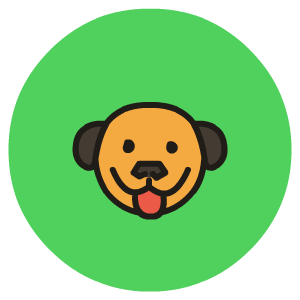
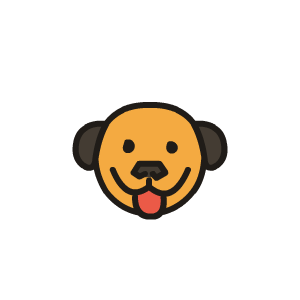
Added ability to change profilePic

diff --git a/components/Personalize/Pic.tsx b/components/Personalize/Pic.tsx
@@ -1,0 +1,83 @@
+import { useState, useEffect } from 'react';
+import { View, ScrollView, Text, TextInput, Button, TouchableOpacity, Image } from "react-native";
+import { Base, Typography, Forms, Buttons, Images } from '../../styles';
+import { showMessage } from 'react-native-flash-message';
+import { Feather, AntDesign, MaterialCommunityIcons } from '@expo/vector-icons';
+
+import storage from '../../models/storage';
+
+
+export default function Pic({ navigation, picNum, setPicNum, profilepics }) {
+
+    const [currentPicNum, setCurrentPicNum] = useState<number>(-1);
+    console.log("PICNUMMMMM");
+    console.log(picNum);
+
+    let listPics = "";
+    redefineListPics();
+
+    useEffect(() => {
+        setPicNumber(picNum);
+    }, []);
+
+    function setPicNumber(picNumber: number) {
+        setCurrentPicNum(picNumber);
+        redefineListPics();
+    }
+
+    function redefineListPics() {
+        listPics = profilepics
+            .map((profilepic, index) => {
+                return <TouchableOpacity
+                    key={index}
+                    onPress={() => { setPicNumber(index); }}>
+                    {
+                        index === currentPicNum &&
+                        <Image source={require("../../assets/profilePicBackg.png")} style={Images.profilePicBackg2} />
+                    }
+                    <Image source={profilepic} style={Images.profilePic2} />
+                </TouchableOpacity>
+            });
+    }
+
+    async function submit() {
+        setPicNum(currentPicNum);
+
+        await storage.setPicNum(currentPicNum.toString());
+
+        // showMessage({
+        //     message: `Bra val!`,
+        //     type: "success",
+        // });
+
+        navigation.navigate("Menyval");
+
+    }
+
+    async function cancel() {
+        navigation.navigate("Menyval");
+    }
+
+    // console.log(setProfilename);
+
+    return (
+        <ScrollView style={Base.content}>
+            <Text style={Typography.header2}>Välj bild</Text>
+            <View style={Base.rowContainer}>{listPics}</View>
+            <Text></Text>
+
+            <View style={Base.rowContainerCenter}>
+                <TouchableOpacity onPress={() => { submit(); }} style={Buttons.buttonProfileSmall}>
+                    <Feather name="save" size={24} color="white" />
+                    <Text style={Typography.boldButtonSideWhite}>    Spara</Text>
+                </TouchableOpacity>
+                <TouchableOpacity onPress={() => { cancel(); }} style={Buttons.buttonProfileSmallRed}>
+                    <MaterialCommunityIcons name="cancel" size={24} color="white" />
+                    <Text style={Typography.boldButtonSideWhite}>    Avbryt</Text>
+                </TouchableOpacity>
+            </View>
+        </ScrollView>
+    );
+
+
+};

diff --git a/App.tsx b/App.tsx
@@ -72,7 +72,20 @@ const categories: Array<Partial<Category>> = [
     imgUrl: require("./assets/noIcon.png"),
     urlEnd: '8861938c-e603-422f-b5b9-b49c09c15b9f'
   }
-]
+];
+
+
+const profilepics: Array<NodeRequire> = [
+  require("./assets/dogIcon.png"),
+  require("./assets/dogTestIcon.png"),
+  require("./assets/dogIcon.png"),
+  require("./assets/dogIcon.png"),
+  require("./assets/dogIcon.png"),
+  require("./assets/dogIcon.png"),
+  require("./assets/dogIcon.png"),
+  require("./assets/dogIcon.png"),
+  require("./assets/dogIcon.png"),
+];
 
 const Tab = createBottomTabNavigator();
 // https://icons.expo.fyi/ sortera på ionicons eller importera bibliotek
@@ -98,25 +111,15 @@ FlashMessage.setColorTheme({
 
 export default function App() {
 
-  // const [isLoggedIn, setIsLoggedIn] = useState<Boolean>(false);
   const [name, setName] = useState<string>("");
-
-
-  // useEffect(() => {
-  //   (async function () {
-  //     setIsLoggedIn(await authModel.loggedIn());
-  //     const artefactObj = await artefactsModel.getArtefactByEmail();
-  //     console.log(artefactObj)
-  //     if (artefactObj) {
-  //       setArtefact({ ...artefact, ownerName: artefactObj.ownerName, dogName:artefactObj.dogName });
-  //     }
-  //   })();
-  // }, []);
+  const [picNum, setPicNum] = useState<number>(0);
 
   useEffect(() => {
     (async function () {
       const name = await storage.getName();
+      const pic = await storage.getPicNum();
       if (name) { setName(name); }
+      if (pic) { setPicNum(pic); }
     })();
   }, []);
 
@@ -148,28 +151,15 @@ export default function App() {
           },
         })}>
           <Tab.Screen name="Hem">
-            {() => <Root categories={categories} name={name} setName={setName}/>}
+            {() => <Root
+              categories={categories}
+              name={name}
+              setName={setName}
+              profilepics={profilepics}
+              picNum={picNum}
+              setPicNum={setPicNum}
+            />}
           </Tab.Screen>
-          {/* <Tab.Screen name="Profil">
-            {() => <Personalize name={name} setName={setName}/>}
-          </Tab.Screen> */}
-          {/* {isLoggedIn ?
-            <Tab.Screen name="Profil">
-              {() => <Profile
-                artefact={artefact}
-                setArtefact={setArtefact}
-                setIsLoggedIn={setIsLoggedIn}
-              />}
-            </Tab.Screen>
-            :
-            <Tab.Screen name="Inlogg">
-              {() => <Auth
-                setIsLoggedIn={setIsLoggedIn}
-                artefact={artefact}
-                setArtefact={setArtefact}
-              />}
-            </Tab.Screen>
-          } */}
           <Tab.Screen name="Om" component={About} />
         </Tab.Navigator>
       </NavigationContainer>

diff --git a/components/Root/Root.tsx b/components/Root/Root.tsx
@@ -7,9 +7,9 @@ import Personalize from '../Personalize/Personalize';
 
 const Stack = createNativeStackNavigator();
 
-export default function Root({ categories, name, setName }) {
+export default function Root(props) {
 
-    const listCategories = categories
+    const listCategories = props.categories
         .map((categoryObj, index) => {
             return <Stack.Screen name={categoryObj.stackName} component={Stacking} key={index}/>
         });
@@ -18,14 +18,19 @@ export default function Root({ categories, name, setName }) {
         <Stack.Navigator initialRouteName="Meny" screenOptions={{ headerShown: false }}>
             <Stack.Screen name="Meny">
                 {(screenProps) => <Categories {...screenProps}
-                    categories={categories}
-                    name={name}
+                    categories={props.categories}
+                    name={props.name}
+                    picNum={props.picNum}
+                    profilepics={props.profilepics}
                 />}
             </Stack.Screen>
             <Stack.Screen name="Profil" options={{ headerShown: true }}>
                 {(screenProps) => <Personalize {...screenProps}
-                    name={name}
-                    setName={setName}
+                    name={props.name}
+                    setName={props.setName}
+                    picNum={props.picNum}
+                    setPicNum={props.setPicNum}
+                    profilepics={props.profilepics}
                 />}
             </Stack.Screen>
             {listCategories}

diff --git a/components/Personalize/Choices.tsx b/components/Personalize/Choices.tsx
@@ -9,6 +9,10 @@ import AuthModel from '../../models/auth';
 
 export default function Choices(props) {
 
+    console.log("AHAAA");
+    console.log(props.profilepics);
+    console.log(props.picNum);
+    console.log(props.profilepics[props.picNum]);
 
     return (
         <View style={Base.backgroundCol}>
@@ -16,7 +20,7 @@ export default function Choices(props) {
 
             <Text></Text>
 
-            {/* Hundägare */}
+            {/* Namn */}
             <TouchableOpacity
                 style={Buttons.buttonProfile}
                 onPress={() => {props.navigation.navigate('Namn');}}>
@@ -27,6 +31,15 @@ export default function Choices(props) {
                     :
                     <Text style={Typography.boldButtonSideWhite}>{props.name}</Text>
                 }
+                <View style={Buttons.buttonArrow}><AntDesign name="rightcircle" size={22} color="white" /></View>
+            </TouchableOpacity>
+
+            {/* Bild */}
+            <TouchableOpacity
+                style={Buttons.buttonProfile}
+                onPress={() => {props.navigation.navigate('Bild');}}>
+                <Image source={props.profilepics[props.picNum]} style={Images.buttonIconStart} />
+                <Text style={Typography.boldButtonSideWhite}>Välj bild</Text>
                 <View style={Buttons.buttonArrow}><AntDesign name="rightcircle" size={22} color="white" /></View>
             </TouchableOpacity>
 

diff --git a/components/Personalize/Personalize.tsx b/components/Personalize/Personalize.tsx
@@ -4,21 +4,34 @@ import { getStateFromPath } from '@react-navigation/native';
 
 import Choices from './Choices';
 import Name from './Name';
+import Pic from './Pic';
 
 const Stack = createNativeStackNavigator();
 
 export default function Personalize(props) {
+    console.log("PROFILE");
+    console.log(props.profilepics);
     return (
         <Stack.Navigator initialRouteName="Menyval" screenOptions={{ headerShown: false }}>
             <Stack.Screen name="Menyval" options={{headerShown: false}}>
                 {(screenProps) => <Choices {...screenProps}
                     name={props.name}
+                    picNum={props.picNum}
+                    profilepics={props.profilepics}
                 />}
             </Stack.Screen>
             <Stack.Screen name="Namn">
                 {(screenProps) =>
                     <Name {...screenProps}
                         setName={props.setName}
+                    />}
+            </Stack.Screen>
+            <Stack.Screen name="Bild">
+                {(screenProps) =>
+                    <Pic {...screenProps}
+                        picNum={props.picNum}
+                        setPicNum={props.setPicNum}
+                        profilepics={props.profilepics}
                     />}
             </Stack.Screen>
         </Stack.Navigator>

diff --git a/components/Root/Categories.tsx b/components/Root/Categories.tsx
@@ -3,7 +3,7 @@ import { Typography, Base, Buttons, Images } from '../../styles';
 import { FlatGrid } from 'react-native-super-grid';
 
 
-export default function Categories({ categories, navigation, name }) {
+export default function Categories({ categories, navigation, name, profilepics, picNum }) {
 
     function goToProfile() {
         navigation.navigate("Profil");
@@ -40,7 +40,8 @@ export default function Categories({ categories, navigation, name }) {
 
 
             <TouchableOpacity style={Images.profilePicContainer} onPress={() => { goToProfile(); }}>
-                <Image source={require("../../assets/profilePic.png")} style={Images.profilePic} />
+                <Image source={require("../../assets/profilePicBackg.png")} style={Images.profilePicBackg} />
+                <Image source={profilepics[picNum]} style={Images.profilePic} />
             </TouchableOpacity>
 
             {/* {

diff --git a/models/storage.ts b/models/storage.ts
@@ -16,6 +16,21 @@ const storage = {
             // error reading value
         }
     },
+    setPicNum: async function setPicNum(picNum:string) {
+        try {
+            await AsyncStorage.setItem('@picNum', picNum);
+        } catch (e) {
+            // saving error
+        }
+    },
+    getPicNum: async function getPicNum(): Promise<any> {
+        try {
+            const jsonValue = await AsyncStorage.getItem('@picNum');
+            return jsonValue != null ? parseInt(jsonValue) : null;
+        } catch (e) {
+            // error reading value
+        }
+    },
     storeTokenAndEmail: async function storeTokenAndEmail(token: string, email: string) {
         try {
             const tokenAndDate = {

diff --git a/components/Personalize/Name.tsx b/components/Personalize/Name.tsx
@@ -9,8 +9,6 @@ import storage from '../../models/storage';
 // import auth from '../../models/auth';
 // import artefactsModel from '../../models/artefacts';
 
-// import { showMessage } from 'react-native-flash-message';
-
 
 export default function Name({navigation,setName}) {
 
@@ -21,10 +19,10 @@ export default function Name({navigation,setName}) {
 
         await storage.setName(currentName);
 
-        showMessage({
-            message: `Hej ${currentName}!`,
-            type: "success",
-        });
+        // showMessage({
+        //     message: `Hej ${currentName}!`,
+        //     type: "success",
+        // });
 
         navigation.navigate("Menyval");
 

diff --git a/styles/images.tsx b/styles/images.tsx
@@ -27,8 +27,30 @@ export const profilePicContainer = {
     top: -20,
     right: -15,
 }
-
-export const profilePic = {
+export const profilePicBackg = {
+    position: 'absolute',
+    top: 0,
+    right: 0,
     width: 110,
     height: 110,
+}
+export const profilePicBackg2 = {
+    position: 'absolute',
+    top: -2,
+    right: -2,
+    width: 110,
+    height: 110,
+}
+
+export const profilePic = {
+    width: 60,
+    height: 60,
+    marginRight: 26,
+    marginTop: 29,
+}
+
+export const profilePic2 = {
+    width: 70,
+    height: 70,
+    margin: 20,
 }
